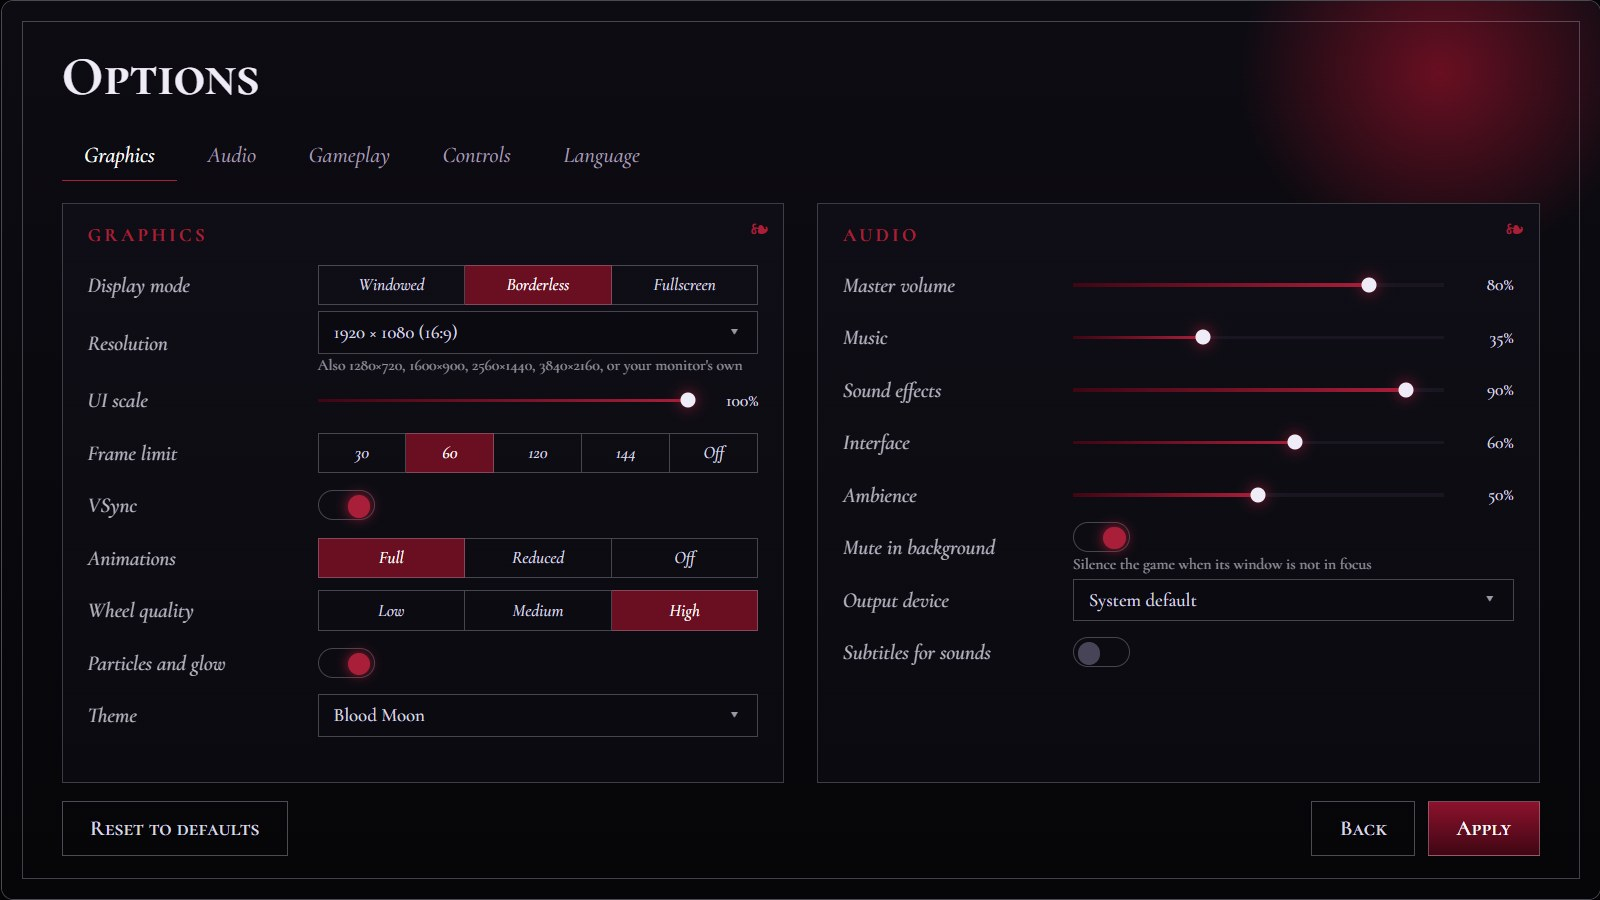
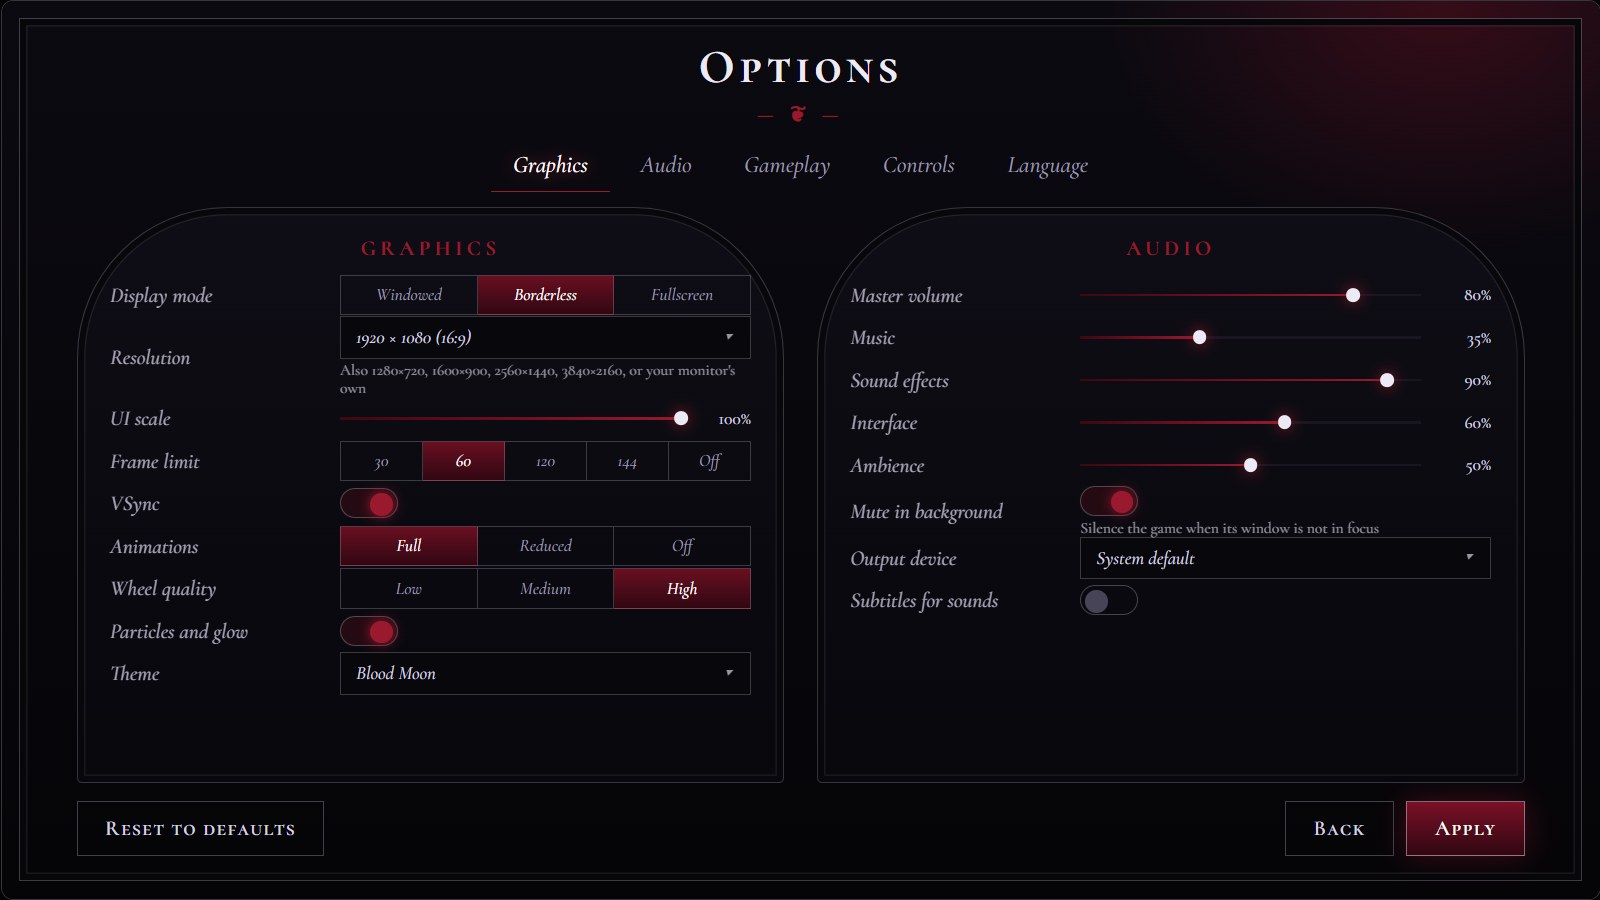
Remake the Blood Moon main menu mockup
The wheel becomes the blood moon over a cathedral skyline; the menu sits in
a candlelit gothic arched window; arched lace-framed option panels.

diff --git a/mockups/menu/m4-blood-moon.html b/mockups/menu/m4-blood-moon.html
@@ -18,24 +18,32 @@
 .hint{font-size:12.5px;opacity:.65;margin-top:2px}
 .btns{display:flex;justify-content:space-between;align-items:center;margin-top:14px}.btns div{display:flex;gap:10px}.btn{padding:11px 22px;font-size:15px}
 .back{text-align:center;margin:0 0 50px}
-body{background:#050407;color:#dcd6e6;font-family:"Cormorant Garamond",Georgia,serif}.head small{color:#c41e3a;font-family:"Cormorant SC",serif;font-size:14px}.head h1{font-family:"Cormorant SC",serif;font-size:60px;color:#f1ecf7}.head p,.head ul{color:#a9a2b8;font-size:19px}.back a{color:#c9cede}
-.scr{border:1px solid rgba(201,206,222,.35)}
-.scene{background:radial-gradient(22% 39% at 32% 42%,#d42a48,#8a1028 55%,#3a0712 72%,transparent 74%),radial-gradient(50% 70% at 32% 42%,rgba(196,30,58,.25),transparent 70%),linear-gradient(#120a10,#050407)}
-.scene:before{content:"";position:absolute;left:0;right:0;bottom:0;height:260px;background:#050407;clip-path:polygon(0 60%,6% 60%,6% 30%,8% 10%,10% 30%,10% 55%,18% 55%,18% 40%,21% 40%,22% 20%,23% 40%,26% 40%,26% 60%,34% 60%,35% 8%,36% 60%,44% 58%,44% 35%,47% 25%,50% 35%,50% 62%,62% 62%,62% 45%,66% 45%,66% 66%,76% 66%,78% 30%,80% 66%,100% 70%,100% 100%,0 100%)}
-.scene:after{content:"";position:absolute;left:0;right:0;bottom:0;height:120px;background:linear-gradient(transparent,rgba(40,34,52,.55))}
-.emblem{left:248px;top:150px;width:330px;height:330px;opacity:.6;mix-blend-mode:screen}
-.logo{right:90px;top:80px;text-align:right}.logo h2{font-family:"Cormorant SC",serif;font-weight:700;font-size:80px;color:#f1ecf7;letter-spacing:.06em;text-shadow:0 0 30px rgba(196,30,58,.5)}.logo p{font-style:italic;font-size:22px;color:#c9cede}
-.menu{right:90px;top:250px;align-items:flex-end;gap:0}.menu a{font-size:25px;font-style:italic;padding:4px 0;color:#a39cb4}.menu a.on{color:#fff;text-shadow:0 0 20px rgba(196,30,58,.8)}.menu a.on:after{content:"❧";color:#c41e3a;margin-left:2px}.menu a small{font-size:15px;color:#8d86a0;margin-right:10px;order:-1}
-.foot b{color:#ff8fa3}
-.opt{background:radial-gradient(18% 30% at 90% 8%,#7a0f22,transparent 70%),linear-gradient(#0e0c13,#060508)}.opt:before{content:"";position:absolute;inset:16px;border:1px solid rgba(201,206,222,.3);pointer-events:none}.opt h2{font-family:"Cormorant SC",serif;font-size:44px;color:#f1ecf7}
-.tabs span{font-style:italic;font-size:18px;color:#a39cb4}.tabs .on{color:#fff;border-bottom:1px solid #c41e3a}
-.grp{border:1px solid rgba(201,206,222,.25);background:linear-gradient(#100e16,#0b0a10);padding:16px 20px;position:relative}.grp:after{content:"❧";position:absolute;right:12px;top:8px;color:#c41e3a}.grp h3{font-family:"Cormorant SC",serif;color:#c41e3a;font-size:15px}
-.r{font-size:17px}.r>span{font-style:italic}
-.seg i{border:1px solid rgba(201,206,222,.3);font-size:14px;font-style:italic}.seg i+i{border-left:0}.seg i.on{background:#7a0f22;color:#fff}
-.sel{border:1px solid rgba(201,206,222,.3);background:#0b0a10;font-size:15px}.sl .t{background:#1a1622;height:3px}.sl .t i{background:linear-gradient(90deg,#4a0614,#c41e3a)}.sl .t b{background:#f1ecf7;border-radius:50%;width:12px;height:12px;box-shadow:0 0 12px #c41e3a}
-.tg{border:1px solid rgba(201,206,222,.3);border-radius:12px}.tg:after{border-radius:50%;background:#4a4458}.tg.on:after{background:#c41e3a;box-shadow:0 0 10px #c41e3a}
-.btn{font-family:"Cormorant SC",serif;font-size:17px;border:1px solid rgba(201,206,222,.35);background:transparent;color:#dcd6e6}.btn.p{background:linear-gradient(#a3122e,#4a0614);color:#fff}</style></head><body>
-<div class="head"><small>Main menu mockup 4 of 4 · Gothic horror</small><h1>Blood Moon</h1><p>A hunter's night: a huge blood moon behind a gothic skyline, the watching wheel-eye inside the moon, and a quiet italic menu on the right with silver fleurons. Options sit in a lace-framed panel.</p><ul><li>Title screen: full-screen scene, the themed wheel as an emblem, a game-style menu with keyboard hints</li><li>Options: Graphics (display mode, resolution, UI scale, frame limit, VSync, animations, wheel quality, effects) and Audio (master, music, effects, interface, ambience, background mute, output device)</li></ul></div>
+body{background:#040306;color:#d9d3e3;font-family:"Cormorant Garamond",Georgia,serif}.head small{color:#b3192f;font-family:"Cormorant SC",serif;font-size:14px}.head h1{font-family:"Cormorant SC",serif;font-size:60px;color:#efeaf5}.head p,.head ul{color:#a29bb2;font-size:19px}.back a{color:#c9cede}
+.scr{border:1px solid rgba(201,206,222,.25);background:#040306}
+.scene{background:radial-gradient(circle at 69.6% 39.5%,#9a1430 0,#6e0c22 170px,#4a0818 262px,#2a0510 282px,transparent 284px),radial-gradient(circle at 69.6% 39.5%,rgba(196,30,58,.4) 280px,rgba(120,12,30,.18) 360px,transparent 470px),linear-gradient(#07060c 0%,#0c0811 45%,#3a0a16 76%,#14050a 88%,#050407 100%)}
+.scene:before{content:"";position:absolute;left:0;right:0;bottom:0;height:300px;background:#020103;clip-path:polygon(0 72%,3% 72%,3% 52%,4.5% 34%,6% 52%,6% 70%,11% 70%,11% 58%,13% 58%,14% 22%,15% 58%,17% 58%,17% 74%,24% 74%,24% 48%,25% 48%,26% 28%,27% 48%,28% 48%,28% 66%,36% 66%,36% 56%,39% 56%,41% 6%,43% 56%,46% 56%,46% 70%,52% 70%,52% 50%,54% 40%,56% 50%,56% 68%,63% 68%,63% 44%,64% 44%,65% 14%,66% 44%,67% 44%,67% 60%,72% 60%,72% 36%,74% 18%,76% 36%,76% 64%,82% 64%,82% 52%,84% 52%,85% 30%,86% 52%,88% 52%,88% 70%,94% 70%,94% 56%,96% 42%,98% 56%,98% 72%,100% 72%,100% 100%,0 100%)}
+.scene:after{content:"";position:absolute;inset:0;background:linear-gradient(transparent 70%,rgba(120,110,140,.12) 80%,rgba(30,26,40,.5) 90%,rgba(8,6,10,.9) 100%)}
+.emblem{left:640px;top:36px;width:500px;height:500px;opacity:.92;filter:drop-shadow(0 0 60px rgba(196,30,58,.55)) saturate(.8) brightness(.8)}
+.logo{left:110px;top:66px;width:400px;text-align:center}.logo h2{font-family:"Cormorant SC",serif;font-weight:700;font-size:68px;letter-spacing:.08em;color:#efeaf5;text-shadow:0 0 24px rgba(179,25,47,.45)}.logo p{font-style:italic;font-size:20px;color:#b9b1c8}
+.logo:after{content:"— ❦ —";display:block;color:#b3192f;margin-top:6px;letter-spacing:.3em}
+.menu{left:110px;top:205px;width:400px;height:470px;padding:62px 46px 30px;align-items:center;gap:0;background:linear-gradient(rgba(10,8,14,.88),rgba(6,5,9,.94));border:1px solid rgba(201,206,222,.45);border-radius:200px 200px 4px 4px;box-shadow:inset 0 0 0 6px rgba(6,5,9,.95),inset 0 0 0 7px rgba(201,206,222,.22),0 0 60px rgba(0,0,0,.8)}
+.menu:before{content:"✠";position:absolute;top:16px;left:50%;transform:translateX(-50%);color:#c9cede;opacity:.6;font-size:22px}
+.menu:after{content:"";position:absolute;left:24px;right:24px;bottom:-14px;height:24px;background:radial-gradient(4px 9px at 12% 40%,#ffd27a,transparent 70%),radial-gradient(4px 9px at 88% 40%,#ffd27a,transparent 70%),radial-gradient(24px 18px at 12% 50%,rgba(255,170,60,.35),transparent 70%),radial-gradient(24px 18px at 88% 50%,rgba(255,170,60,.35),transparent 70%)}
+.menu a{justify-content:center;width:100%;font-size:21px;font-style:italic;padding:5px 0;color:#9d96ad;border-bottom:1px solid rgba(201,206,222,.09)}.menu a:last-child{border-bottom:0}
+.menu a.on{color:#fff;text-shadow:0 0 18px rgba(196,30,58,.9);background:linear-gradient(90deg,transparent,rgba(122,15,34,.35),transparent)}.menu a.on:before{content:"❧";color:#b3192f;transform:scaleX(-1);display:inline-block}.menu a.on:after{content:"❧";color:#b3192f}
+.menu a small{display:none}
+.foot{color:#a29bb2}.foot b{color:#ff8fa3}
+.opt{background:radial-gradient(30% 40% at 90% 0%,rgba(122,15,34,.45),transparent 70%),linear-gradient(#0c0a11,#050407);padding:30px 60px 34px}.opt:before{content:"";position:absolute;inset:14px;border:1px solid rgba(201,206,222,.28);box-shadow:inset 0 0 0 5px #070609,inset 0 0 0 6px rgba(201,206,222,.12);pointer-events:none}
+.opt h2{font-family:"Cormorant SC",serif;font-size:38px;color:#efeaf5;text-align:center;letter-spacing:.1em}.opt h2:after{content:"— ❦ —";display:block;font-size:16px;color:#b3192f;letter-spacing:.3em;margin-top:2px}
+.tabs{justify-content:center}.tabs span{font-style:italic;font-size:19px;color:#9d96ad}.tabs .on{color:#fff;text-shadow:0 0 12px rgba(196,30,58,.8);border-bottom:1px solid #b3192f}
+.grp{border:1px solid rgba(201,206,222,.22);border-radius:120px 120px 4px 4px;background:linear-gradient(rgba(16,13,22,.9),rgba(9,8,13,.95));padding:22px 26px 10px;position:relative;box-shadow:inset 0 0 0 5px #08070b,inset 0 0 0 6px rgba(201,206,222,.1)}
+.grp h3{font-family:"Cormorant SC",serif;color:#b3192f;font-size:17px;text-align:center;letter-spacing:.2em}
+.r{font-size:17px;min-height:34px}.tabs{margin:6px 0 12px}.r>span{font-style:italic;color:#c8c1d6}
+.seg i{border:1px solid rgba(201,206,222,.25);font-size:14px;font-style:italic;color:#9d96ad}.seg i+i{border-left:0}.seg i.on{background:linear-gradient(#7a0f22,#3a0712);color:#fff}
+.sel{border:1px solid rgba(201,206,222,.25);background:#08070b;font-size:15px;font-style:italic}.sl .t{background:#1a1622;height:2px}.sl .t i{background:linear-gradient(90deg,#4a0614,#b3192f)}.sl .t b{background:#efeaf5;border-radius:50%;width:11px;height:11px;box-shadow:0 0 12px #b3192f}
+.tg{border:1px solid rgba(201,206,222,.3);border-radius:12px}.tg:after{border-radius:50%;background:#4a4458}.tg.on{background:#2a0a12}.tg.on:after{background:#b3192f;box-shadow:0 0 10px #b3192f}
+.btn{font-family:"Cormorant SC",serif;font-size:17px;border:1px solid rgba(201,206,222,.3);background:transparent;color:#d9d3e3;letter-spacing:.06em}.btn.p{background:linear-gradient(#8e1028,#3a0712);color:#fff;border-color:rgba(201,206,222,.5);box-shadow:0 0 22px rgba(179,25,47,.4)}</style></head><body>
+<div class="head"><small>Main menu mockup 4 of 4 · Gothic horror</small><h1>Blood Moon</h1><p>A hunter's night in a cursed city. The wheel is the moon: a dark iron clock-face hanging over the cathedral spires, its green eye open. The menu waits inside a tall gothic window of black lace and silver, lit by candles.</p><ul><li>Title screen: full-screen scene, the themed wheel as an emblem, a game-style menu with keyboard hints</li><li>Options: Graphics (display mode, resolution, UI scale, frame limit, VSync, animations, wheel quality, effects) and Audio (master, music, effects, interface, ambience, background mute, output device)</li></ul></div>
 <div id="screens"><div class="cap">Title screen</div><div class="scr"><div class="scene"></div><canvas class="emblem" data-wheel='{"story":1,"pick":"conquerRace","style":"eldritch"}'></canvas>
     <div class="logo"><h2>FateWheel</h2><p>Every legend is written in blood</p></div>
     <nav class="menu"><a class="on" data-p="vii">Continue<small>Sera Ashgrove · Chapter 7</small></a><a class="" data-p="1">New Legend<small>Spin a new hero</small></a><a class="" data-p="12">Story</a><a class="" data-p="27">Arena</a><a class="" data-p="33">Daily Challenge<small>Today's seed · best 74</small></a><a class="" data-p="41">Hall of Legends<small>12 legends</small></a><a class="" data-p="58">Mods<small>2 installed</small></a><a class="" data-p="63">Options</a><a class="" data-p="—">Quit</a></nav>

diff --git a/mockups/menu/_gen.js b/mockups/menu/_gen.js
@@ -90,25 +90,33 @@ const LOOKS = [
 .btn{border:1px solid #8a5f1f;background:linear-gradient(#2b2f35,#1b1c20);color:#e8d9b0;text-transform:uppercase;letter-spacing:.16em;font-size:13px}.btn.p{background:linear-gradient(#7a1414,#3a0808);border-color:#d9a94a;color:#ffe3a0}` },
 
   { file: 'm4-blood-moon.html', theme: 'bloodmoon', wheel: 'eldritch', n: 4, name: 'Blood Moon', genre: 'Gothic horror',
-    desc: 'A hunter\'s night: a huge blood moon behind a gothic skyline, the watching wheel-eye inside the moon, and a quiet italic menu on the right with silver fleurons. Options sit in a lace-framed panel.',
-    layout: 'right',
-    css: `body{background:#050407;color:#dcd6e6;font-family:"Cormorant Garamond",Georgia,serif}.head small{color:#c41e3a;font-family:"Cormorant SC",serif;font-size:14px}.head h1{font-family:"Cormorant SC",serif;font-size:60px;color:#f1ecf7}.head p,.head ul{color:#a9a2b8;font-size:19px}.back a{color:#c9cede}
-.scr{border:1px solid rgba(201,206,222,.35)}
-.scene{background:radial-gradient(22% 39% at 32% 42%,#d42a48,#8a1028 55%,#3a0712 72%,transparent 74%),radial-gradient(50% 70% at 32% 42%,rgba(196,30,58,.25),transparent 70%),linear-gradient(#120a10,#050407)}
-.scene:before{content:"";position:absolute;left:0;right:0;bottom:0;height:260px;background:#050407;clip-path:polygon(0 60%,6% 60%,6% 30%,8% 10%,10% 30%,10% 55%,18% 55%,18% 40%,21% 40%,22% 20%,23% 40%,26% 40%,26% 60%,34% 60%,35% 8%,36% 60%,44% 58%,44% 35%,47% 25%,50% 35%,50% 62%,62% 62%,62% 45%,66% 45%,66% 66%,76% 66%,78% 30%,80% 66%,100% 70%,100% 100%,0 100%)}
-.scene:after{content:"";position:absolute;left:0;right:0;bottom:0;height:120px;background:linear-gradient(transparent,rgba(40,34,52,.55))}
-.emblem{left:248px;top:150px;width:330px;height:330px;opacity:.6;mix-blend-mode:screen}
-.logo{right:90px;top:80px;text-align:right}.logo h2{font-family:"Cormorant SC",serif;font-weight:700;font-size:80px;color:#f1ecf7;letter-spacing:.06em;text-shadow:0 0 30px rgba(196,30,58,.5)}.logo p{font-style:italic;font-size:22px;color:#c9cede}
-.menu{right:90px;top:250px;align-items:flex-end;gap:0}.menu a{font-size:25px;font-style:italic;padding:4px 0;color:#a39cb4}.menu a.on{color:#fff;text-shadow:0 0 20px rgba(196,30,58,.8)}.menu a.on:after{content:"❧";color:#c41e3a;margin-left:2px}.menu a small{font-size:15px;color:#8d86a0;margin-right:10px;order:-1}
-.foot b{color:#ff8fa3}
-.opt{background:radial-gradient(18% 30% at 90% 8%,#7a0f22,transparent 70%),linear-gradient(#0e0c13,#060508)}.opt:before{content:"";position:absolute;inset:16px;border:1px solid rgba(201,206,222,.3);pointer-events:none}.opt h2{font-family:"Cormorant SC",serif;font-size:44px;color:#f1ecf7}
-.tabs span{font-style:italic;font-size:18px;color:#a39cb4}.tabs .on{color:#fff;border-bottom:1px solid #c41e3a}
-.grp{border:1px solid rgba(201,206,222,.25);background:linear-gradient(#100e16,#0b0a10);padding:16px 20px;position:relative}.grp:after{content:"❧";position:absolute;right:12px;top:8px;color:#c41e3a}.grp h3{font-family:"Cormorant SC",serif;color:#c41e3a;font-size:15px}
-.r{font-size:17px}.r>span{font-style:italic}
-.seg i{border:1px solid rgba(201,206,222,.3);font-size:14px;font-style:italic}.seg i+i{border-left:0}.seg i.on{background:#7a0f22;color:#fff}
-.sel{border:1px solid rgba(201,206,222,.3);background:#0b0a10;font-size:15px}.sl .t{background:#1a1622;height:3px}.sl .t i{background:linear-gradient(90deg,#4a0614,#c41e3a)}.sl .t b{background:#f1ecf7;border-radius:50%;width:12px;height:12px;box-shadow:0 0 12px #c41e3a}
-.tg{border:1px solid rgba(201,206,222,.3);border-radius:12px}.tg:after{border-radius:50%;background:#4a4458}.tg.on:after{background:#c41e3a;box-shadow:0 0 10px #c41e3a}
-.btn{font-family:"Cormorant SC",serif;font-size:17px;border:1px solid rgba(201,206,222,.35);background:transparent;color:#dcd6e6}.btn.p{background:linear-gradient(#a3122e,#4a0614);color:#fff}` }
+    desc: 'A hunter\'s night in a cursed city. The wheel is the moon: a dark iron clock-face hanging over the cathedral spires, its green eye open. The menu waits inside a tall gothic window of black lace and silver, lit by candles.',
+    layout: 'left',
+    css: `body{background:#040306;color:#d9d3e3;font-family:"Cormorant Garamond",Georgia,serif}.head small{color:#b3192f;font-family:"Cormorant SC",serif;font-size:14px}.head h1{font-family:"Cormorant SC",serif;font-size:60px;color:#efeaf5}.head p,.head ul{color:#a29bb2;font-size:19px}.back a{color:#c9cede}
+.scr{border:1px solid rgba(201,206,222,.25);background:#040306}
+.scene{background:radial-gradient(circle at 69.6% 39.5%,#9a1430 0,#6e0c22 170px,#4a0818 262px,#2a0510 282px,transparent 284px),radial-gradient(circle at 69.6% 39.5%,rgba(196,30,58,.4) 280px,rgba(120,12,30,.18) 360px,transparent 470px),linear-gradient(#07060c 0%,#0c0811 45%,#3a0a16 76%,#14050a 88%,#050407 100%)}
+.scene:before{content:"";position:absolute;left:0;right:0;bottom:0;height:300px;background:#020103;clip-path:polygon(0 72%,3% 72%,3% 52%,4.5% 34%,6% 52%,6% 70%,11% 70%,11% 58%,13% 58%,14% 22%,15% 58%,17% 58%,17% 74%,24% 74%,24% 48%,25% 48%,26% 28%,27% 48%,28% 48%,28% 66%,36% 66%,36% 56%,39% 56%,41% 6%,43% 56%,46% 56%,46% 70%,52% 70%,52% 50%,54% 40%,56% 50%,56% 68%,63% 68%,63% 44%,64% 44%,65% 14%,66% 44%,67% 44%,67% 60%,72% 60%,72% 36%,74% 18%,76% 36%,76% 64%,82% 64%,82% 52%,84% 52%,85% 30%,86% 52%,88% 52%,88% 70%,94% 70%,94% 56%,96% 42%,98% 56%,98% 72%,100% 72%,100% 100%,0 100%)}
+.scene:after{content:"";position:absolute;inset:0;background:linear-gradient(transparent 70%,rgba(120,110,140,.12) 80%,rgba(30,26,40,.5) 90%,rgba(8,6,10,.9) 100%)}
+.emblem{left:640px;top:36px;width:500px;height:500px;opacity:.92;filter:drop-shadow(0 0 60px rgba(196,30,58,.55)) saturate(.8) brightness(.8)}
+.logo{left:110px;top:66px;width:400px;text-align:center}.logo h2{font-family:"Cormorant SC",serif;font-weight:700;font-size:68px;letter-spacing:.08em;color:#efeaf5;text-shadow:0 0 24px rgba(179,25,47,.45)}.logo p{font-style:italic;font-size:20px;color:#b9b1c8}
+.logo:after{content:"— ❦ —";display:block;color:#b3192f;margin-top:6px;letter-spacing:.3em}
+.menu{left:110px;top:205px;width:400px;height:470px;padding:62px 46px 30px;align-items:center;gap:0;background:linear-gradient(rgba(10,8,14,.88),rgba(6,5,9,.94));border:1px solid rgba(201,206,222,.45);border-radius:200px 200px 4px 4px;box-shadow:inset 0 0 0 6px rgba(6,5,9,.95),inset 0 0 0 7px rgba(201,206,222,.22),0 0 60px rgba(0,0,0,.8)}
+.menu:before{content:"✠";position:absolute;top:16px;left:50%;transform:translateX(-50%);color:#c9cede;opacity:.6;font-size:22px}
+.menu:after{content:"";position:absolute;left:24px;right:24px;bottom:-14px;height:24px;background:radial-gradient(4px 9px at 12% 40%,#ffd27a,transparent 70%),radial-gradient(4px 9px at 88% 40%,#ffd27a,transparent 70%),radial-gradient(24px 18px at 12% 50%,rgba(255,170,60,.35),transparent 70%),radial-gradient(24px 18px at 88% 50%,rgba(255,170,60,.35),transparent 70%)}
+.menu a{justify-content:center;width:100%;font-size:21px;font-style:italic;padding:5px 0;color:#9d96ad;border-bottom:1px solid rgba(201,206,222,.09)}.menu a:last-child{border-bottom:0}
+.menu a.on{color:#fff;text-shadow:0 0 18px rgba(196,30,58,.9);background:linear-gradient(90deg,transparent,rgba(122,15,34,.35),transparent)}.menu a.on:before{content:"❧";color:#b3192f;transform:scaleX(-1);display:inline-block}.menu a.on:after{content:"❧";color:#b3192f}
+.menu a small{display:none}
+.foot{color:#a29bb2}.foot b{color:#ff8fa3}
+.opt{background:radial-gradient(30% 40% at 90% 0%,rgba(122,15,34,.45),transparent 70%),linear-gradient(#0c0a11,#050407);padding:30px 60px 34px}.opt:before{content:"";position:absolute;inset:14px;border:1px solid rgba(201,206,222,.28);box-shadow:inset 0 0 0 5px #070609,inset 0 0 0 6px rgba(201,206,222,.12);pointer-events:none}
+.opt h2{font-family:"Cormorant SC",serif;font-size:38px;color:#efeaf5;text-align:center;letter-spacing:.1em}.opt h2:after{content:"— ❦ —";display:block;font-size:16px;color:#b3192f;letter-spacing:.3em;margin-top:2px}
+.tabs{justify-content:center}.tabs span{font-style:italic;font-size:19px;color:#9d96ad}.tabs .on{color:#fff;text-shadow:0 0 12px rgba(196,30,58,.8);border-bottom:1px solid #b3192f}
+.grp{border:1px solid rgba(201,206,222,.22);border-radius:120px 120px 4px 4px;background:linear-gradient(rgba(16,13,22,.9),rgba(9,8,13,.95));padding:22px 26px 10px;position:relative;box-shadow:inset 0 0 0 5px #08070b,inset 0 0 0 6px rgba(201,206,222,.1)}
+.grp h3{font-family:"Cormorant SC",serif;color:#b3192f;font-size:17px;text-align:center;letter-spacing:.2em}
+.r{font-size:17px;min-height:34px}.tabs{margin:6px 0 12px}.r>span{font-style:italic;color:#c8c1d6}
+.seg i{border:1px solid rgba(201,206,222,.25);font-size:14px;font-style:italic;color:#9d96ad}.seg i+i{border-left:0}.seg i.on{background:linear-gradient(#7a0f22,#3a0712);color:#fff}
+.sel{border:1px solid rgba(201,206,222,.25);background:#08070b;font-size:15px;font-style:italic}.sl .t{background:#1a1622;height:2px}.sl .t i{background:linear-gradient(90deg,#4a0614,#b3192f)}.sl .t b{background:#efeaf5;border-radius:50%;width:11px;height:11px;box-shadow:0 0 12px #b3192f}
+.tg{border:1px solid rgba(201,206,222,.3);border-radius:12px}.tg:after{border-radius:50%;background:#4a4458}.tg.on{background:#2a0a12}.tg.on:after{background:#b3192f;box-shadow:0 0 10px #b3192f}
+.btn{font-family:"Cormorant SC",serif;font-size:17px;border:1px solid rgba(201,206,222,.3);background:transparent;color:#d9d3e3;letter-spacing:.06em}.btn.p{background:linear-gradient(#8e1028,#3a0712);color:#fff;border-color:rgba(201,206,222,.5);box-shadow:0 0 22px rgba(179,25,47,.4)}` }
 ];
 
 const slider = (v) => `<div class="sl"><div class="t"><i style="width:${v}%"></i><b style="left:${v}%"></b></div><em>${v}%</em></div>`;
